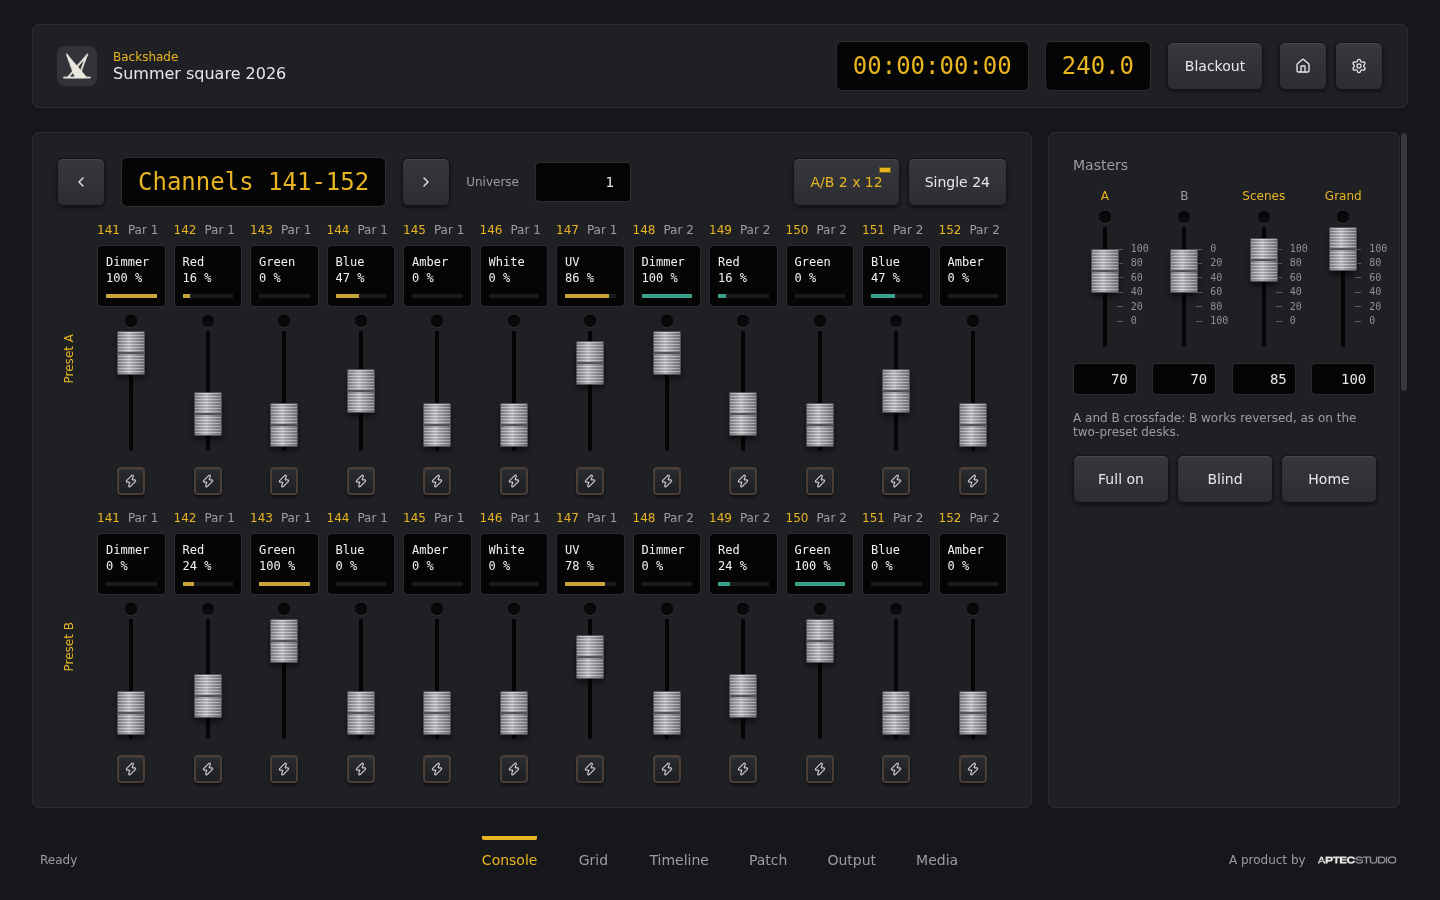
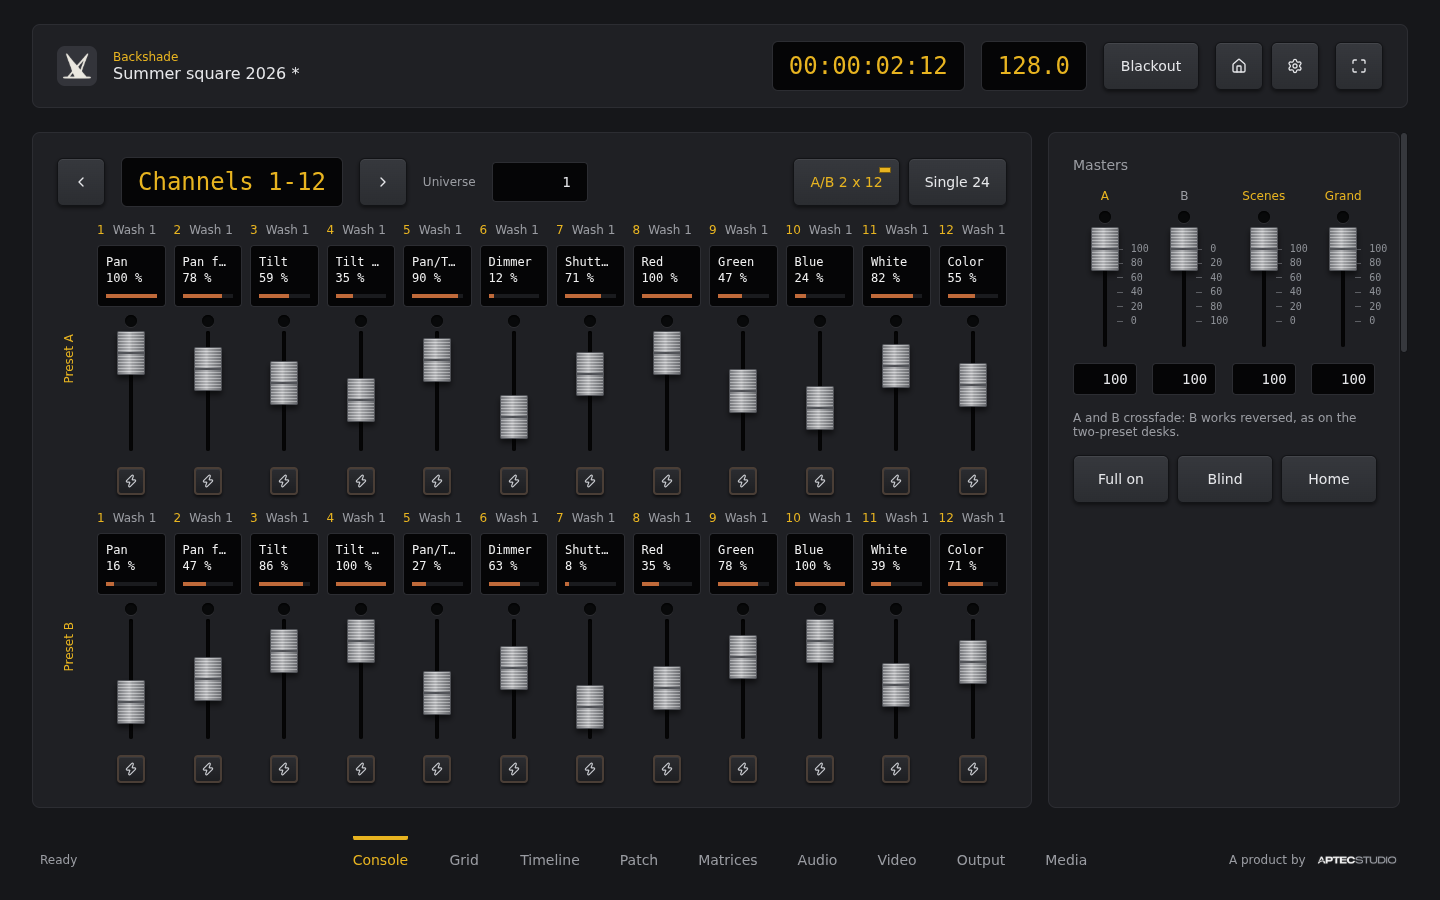
docs: add the live test checklist and new README screenshots
TESTING.md lists the final live tests with real hardware; the README
shows five screenshots of the most interesting features, with updated
features and status.

diff --git a/TESTING.md b/TESTING.md
@@ -1,0 +1,152 @@
+# TESTING.md - Final live tests
+
+Checklist of the tests to run live, with real hardware, before the first release (1.0.0). It lists what has been built so far and is updated at the end of every phase or sub-phase. Automated checks run during development do not replace these tests: here the point is the real devices, the real network and a real show.
+
+How to use it:
+
+- check an item (`- [x]`) when it works as described;
+- when something fails, leave it unchecked and add a short note under it (what happened, on which system and device);
+- "Proposed" choices recorded in `MEMORY.md` (tuning, colors, defaults) are reviewed during the same session.
+
+## Setup for the tests
+
+- At least two computers, ideally with different systems (Windows, macOS, Linux).
+- One or more Art-Net nodes, a USB DMX interface (Enttec DMX USB Pro or compatible, and an Open DMX USB if available).
+- Real fixtures: dimmers or pars (RGB), at least one moving head (pan and tilt 16 bit), an LED pixel matrix or a pixel controller.
+- A second display or a projector, a webcam or a capture card, an external audio interface.
+- A touch screen (or a tablet connected as a monitor) for the grid and the drag and drop.
+
+## 1. Installation and launch
+
+- [ ] The application starts on Windows, macOS and Linux with no errors.
+- [ ] It works offline (network cable removed, no Wi-Fi): no missing icons, fonts or styles.
+- [ ] Interface in English and Italian; switching language updates every section.
+- [ ] A language pack installed by the user appears in the settings and is applied.
+- [ ] The About window shows version, license and the Aptec Studio credit.
+- [ ] The fullscreen key of the top bar enters and leaves fullscreen; the icon follows the system shortcut too.
+
+## 2. Shows, templates and media
+
+- [ ] Start page: recent shows with name, date and folder; a moved or deleted show is marked.
+- [ ] New show from the "Empty show" template and from a user template; open, save, save as, rename, close.
+- [ ] New show from the "Demo show" template: everything opens (fixtures, LED wall, scenes, chasers, cues, grid, audio, video, timeline) with no missing fixtures; with the video output enabled, the timeline plays lights, audio and video together.
+- [ ] Unsaved changes: closing the show or the window asks to save; every answer behaves as expected.
+- [ ] Autosave: kill the application during work (task manager) and reopen the show: the recovery is offered and restores the changes.
+- [ ] History: after several saves the older versions are kept in `history/` (at most 10).
+- [ ] Save as template, rename and delete user templates; included templates are read only.
+- [ ] Export a show as `.bshow` and import it on the other computer: patch, scenes, media and settings are intact.
+- [ ] Export and import a template as `.btemplate`.
+- [ ] Media: import audio, video and image files (also large videos), show in the folder, delete.
+- [ ] A show copied to another computer (USB stick, other system) opens with all its media: paths are portable.
+- [ ] Show settings: description, notes, timecode frame rate, default fades are saved with the show.
+- [ ] Default shows folder changed in the settings: new shows are created there.
+
+## 3. Fixtures and patch
+
+- [ ] The included library has the common models; search and categories work.
+- [ ] Custom fixture editor: create a fixture with channels, ranges, modes and physical data; export and import it.
+- [ ] A show with a definition missing on this computer reports it at opening and lets you import it.
+- [ ] Patch on several universes; overlapping addresses are refused with a clear message.
+- [ ] List view and DMX map view agree; fixture type icons are right.
+- [ ] Fixture groups: create, change, delete; they work on the console and on the grid.
+- [ ] LED matrix patched on several universes (for example 32 x 16 RGB): the segments match the real controller.
+
+## 4. DMX output
+
+- [ ] Art-Net broadcast: a real node receives every universe in use; the lights follow without flicker.
+- [ ] Art-Net unicast to one or more addresses per universe; Port-Address per universe.
+- [ ] ArtPoll finds the nodes on the network.
+- [ ] Choice of the network interface; with the cable unplugged nothing is sent on a wrong network, and sending resumes when the cable is back.
+- [ ] Output on or off per workstation.
+- [ ] Frame rate of the show changed: the output follows (check with a node or a DMX tester).
+- [ ] USB DMX: Enttec DMX USB Pro, Open DMX USB; one universe per interface; unplug and plug back during output.
+- [ ] HTP on intensity and LTP on the other channels when several sources (desk, scenes, grid, timeline) control the same fixture.
+- [ ] Grand master, blackout and full on from the top bar and from the grid.
+- [ ] DMX monitor shows the real values sent, per universe.
+- [ ] 16 bit channels (pan and tilt): smooth movement on a real moving head.
+
+## 5. Simple console
+
+- [ ] Preset A and B rows: faders move the right channels, named after the patched fixtures.
+- [ ] Banks of channels and universe choice; A/B mode and single 24 channel mode.
+- [ ] Flash keys; masters A and B in crossfade; grand master; home; blind (the output does not change while editing).
+- [ ] Attributes panel: select one or more fixtures, their channels on the faders; pan and tilt on the jog wheels; RGB on the color wheel on a real RGB fixture.
+- [ ] Scenes: record from the desk and the attributes, two banks of 12, recall with the saved fade times; non-intensity channels follow the fade.
+- [ ] Several scenes on together; scene master.
+- [ ] Chasers: steps from scenes, step and fade time, bpm and tap tempo, loop, back and forth, random, one shot.
+- [ ] Live cues: Go, Back, Pause, current and next cue, fade progress, follow time; reordering by drag and drop renumbers as expected.
+- [ ] Values shown as percentage or 0-255, chosen separately for faders and knobs.
+
+## 6. LED matrices
+
+- [ ] Matrix preview in the Matrices section matches the real wall (pixel order, start corner, snake).
+- [ ] Basic effects (solid, gradient, scroll, text) and preset animations (rainbow, wave, sparkle, fire, pulse, plasma, chase) with chosen colors, live on the real wall.
+- [ ] Image effect from the show media (fit, fill, stretch).
+- [ ] Effects recorded in scenes and recalled with the scene.
+- [ ] Frame rate and smoothness of the effects on a large matrix spread over several universes.
+
+## 7. Virtual console grid
+
+- [ ] Pages with their columns and rows; cells adapt to the window and to a small screen.
+- [ ] Widgets: key, fader, knob, color picker, XY pad, label, monitor; edit mode and run mode.
+- [ ] Links: scenes, chasers, groups, cues, masters, DMX channels, desk commands, audio player, timers.
+- [ ] Touch screen: several faders and keys at the same time with multi-touch, no wrong presses.
+- [ ] Widgets moved and resized in edit mode, also by touch.
+
+## 8. Audio
+
+- [ ] Audio devices listed; output on an external audio interface.
+- [ ] Playlist: play, pause, stop, next, previous, auto advance, volume.
+- [ ] Items with start and end time, fade in and fade out, loop.
+- [ ] A scene with an audio item starts it with the fades of the scene; cues and grid keys start audio.
+- [ ] Audio stays in sync with lights and video over a long show (no drift).
+
+## 9. Video
+
+- [ ] Displays listed; output fullscreen on a second display or a projector; window output with position and size.
+- [ ] Stacking order of several outputs on the same display.
+- [ ] Layers: video, image, opacity, fit; transitions; preview and program with Take and transition time.
+- [ ] Video inputs: webcam and capture card as layer sources, quality and frame rate per layer; latency acceptable for a live show.
+- [ ] Program recorded in scenes and recalled with the scene.
+- [ ] Text gobos: text, font, size, outline, mask (circle and image), soft edge, focus, rotation, prism, animations, dynamic texts (song, timecode, clock, countdown).
+- [ ] Timer screens: clock, countdown, countdown to a time, stopwatch; behavior at zero; control from the Video section and grid keys.
+- [ ] Long videos play smoothly in fullscreen (no dropped frames, no tearing) on every system.
+
+## 10. Timelines
+
+- [ ] Several timelines per show; tracks added, removed, moved, put in folders, muted, resized; zoom and scrolling.
+- [ ] Light, audio, video and automation tracks play what they should, on the right outputs.
+- [ ] Clips: move (also to another track), resize, fades, snap (bars, beats, seconds, frames), selection, duplicate, split, undo and redo.
+- [ ] Playback with loop; the timecode display of the top bar follows the playhead.
+- [ ] Lights, audio and video stay in sync during a whole song and over a long run.
+
+## 11. Drag and drop
+
+- [ ] Every reorderable list (tracks, folders, cues, playlist, video layers and the others) moves by mouse and by touch, with the preview of the drop place and the animation of the neighbors.
+- [ ] Dropping a track into a folder works; long press starts the drag on touch without blocking scrolling.
+
+## 12. Operators
+
+- [ ] Create the administrator profile in a show: the show asks for the PIN at every opening, on every computer.
+- [ ] Operators with sections hidden, read only and editable: tabs and sections follow the profile.
+- [ ] Read only: the section can be seen and played (scenes, cues, video take, timeline) but changes are refused.
+- [ ] Change operator from the top bar key; the last section opens again after the PIN.
+- [ ] Wrong PIN: message; after 5 wrong PINs the keypad is locked for 30 seconds.
+- [ ] Several administrators; the last administrator cannot lose the role; deleting the own last profile removes the protection.
+- [ ] Show settings available only to administrators.
+- [ ] A protected show moved to another computer keeps its operators; templates and new shows never carry operators.
+
+## 13. Import from another show
+
+- [ ] Import dialog: source among the recent shows and from a folder; categories and single items with toggles.
+- [ ] A protected source asks for the PIN of its administrator; no PIN when the same administrator (same name and PIN) entered the open show.
+- [ ] Dependencies: choosing a chaser brings its scenes, and the scenes bring their fixtures, matrices, audio, video and media.
+- [ ] Conflicts: add, replace and skip for occupied slots, overlapping addresses, different files with the same name, operator names; imported scenes drive the moved fixtures on the real rig.
+- [ ] Importing operators into an unprotected show: who imports enters as the source administrator.
+- [ ] Two operators with the same PIN after an import: the keypad offers their names.
+
+## 14. Stability
+
+- [ ] A whole show run (several hours) with lights, audio, video and timeline: no slowdowns, memory and CPU stay stable.
+- [ ] Quit and restart during a show: everything comes back as saved.
+- [ ] Two instances on the same network do not disturb each other's Art-Net output when configured on different universes.

diff --git a/README.md b/README.md
@@ -18,82 +18,49 @@ Backshade is a cross-platform desktop application (Windows, Linux, macOS) built 
 
 ## Screenshots
 
-The simple console: a two-preset desk with Preset A and B rows of faders on DMX channels, named after the patched fixtures, and the masters with the A/B crossfade.
+Pre-programmed shows on a timeline of tracks: light, automation, audio and video clips on a shared clock, with folders, fades and snap to the beat.
+
+![Timeline](docs/screenshots/timeline.png)
+
+The virtual console: a grid of faders, keys, an XY pad, a color picker, knobs and monitors, linked to groups, scenes, chasers and the cue list, for touch screens too.
+
+![Virtual console](docs/screenshots/virtual-console.png)
+
+Video direction with preview and program: layers of videos, images, text gobos and timer screens, taken to the outputs with a transition.
+
+![Video](docs/screenshots/video.png)
+
+LED matrices patched over several universes, with live effects and animations whose colors can be chosen.
+
+![LED matrix](docs/screenshots/led-matrix.png)
+
+The simple console: a two-preset desk with Preset A and B rows of faders named after the patched fixtures, and the masters with the A/B crossfade.
 
 ![Console](docs/screenshots/console.png)
-
-Scenes recorded from the desk in two banks of 12, and chasers that play them at their own speed, with tap tempo.
-
-![Memories](docs/screenshots/console-memories.png)
-
-Live cues: Go, Back and Pause, with the current and next cue, the fade progress and an optional follow.
-
-![Cues](docs/screenshots/console-cues.png)
-
-The attributes panel: selected fixtures get their channels on faders, pan and tilt on two 16-bit jog wheels, RGB on the color wheel.
-
-![Attributes](docs/screenshots/console-attributes.png)
-
-The patch, on several universes, with a library of fixture definitions and a custom fixture editor.
-
-![Patch](docs/screenshots/patch.png)
-
-Output over Art-Net and USB DMX interfaces, with a live DMX monitor.
-
-![DMX monitor](docs/screenshots/dmx-monitor.png)
-
-The start page opens at launch, with the recent shows and the actions on the open show.
-
-![Start page](docs/screenshots/start-page.png)
-
-New shows start from a template: the included "Empty show" or one saved by the user.
-
-![New show](docs/screenshots/new-show.png)
-
-Every show keeps its audio, video and image files in its own folder.
-
-![Media](docs/screenshots/media.png)
-
-Times are set with a time picker and a jog wheel, which works with mouse, pen and touch.
-
-![Time picker](docs/screenshots/time-picker.png)
-
-Application settings: language, display of fader and knob values, default shows folder.
-
-![Settings](docs/screenshots/settings.png)
-
-Console controls from the component catalog: channel displays, knobs, square keys, long faders and typed values.
-
-![Console controls](docs/screenshots/catalog-controls.png)
 
 ## Features
 
 Available now:
 
-- Start page with recent shows, as the entry point of the application
-- Shows saved as portable folders: new, open, save, save as, rename, close
-- Autosave with recovery after an unexpected exit, and history of the saved versions
-- Show templates: included and created by the user, with a management screen
-- Export and import of shows (`.bshow`) and templates (`.btemplate`) as single archives
-- Show media: audio, video and image files copied into the show folder
-- Show settings: description and notes, timecode frame rate, default fades
-- Fixture library with common models and a custom fixture editor, with import and export
-- Multi-universe patch with address conflict checks, as a list or as a DMX map
-- DMX output over Art-Net (broadcast or unicast, node search) and USB DMX interfaces (Enttec DMX USB Pro, Open DMX), with grand master, blackout and a DMX monitor
-- Simple console: two-preset desk (A/B crossfade or single 24 channels), attributes panel with jog wheels and color wheel, scenes, chasers with tap tempo, and live cues with Go, Back, Pause and follow
-- Multilingual interface (English and Italian), extensible with language packs installed by the user
-- Skeuomorphic console controls: keys, displays, knobs, faders, jog wheels, time picker, color wheel
+- Start page with recent shows; shows saved as portable folders, with autosave, recovery and history of the saved versions
+- Show templates, with a complete "Demo show" to try every feature; export and import of shows and templates as single archives, show media in the show folder
+- Show operators with a 4 digit PIN: each operator sees the sections of the profile, hidden, read only or editable
+- Import from another show: scenes, chasers, fixtures, audio, video, images and operators, with their dependencies and the choice of how to solve conflicts
+- Fixture library with a custom fixture editor; multi-universe patch with groups and LED matrices
+- DMX output over Art-Net and USB DMX interfaces, with grand master, blackout and a DMX monitor
+- Simple console: two-preset desk, attributes panel with jog wheels and color wheel, scenes, chasers with tap tempo, live cues
+- LED matrices with effects, animations and image mapping, recorded in scenes
+- Virtual console on a customizable grid for each show, with multi-touch
+- Audio player with playlist, fades and output device; video outputs on external displays with layers, inputs from cameras, preview and program, text gobos and timer screens
+- Timelines of tracks with lights, audio, video and automation clips, edited as in a DAW, with drag and drop everywhere
+- Multilingual interface (English and Italian), extensible with language packs
 
 Planned (see [ROADMAP.md](ROADMAP.md)):
 
-- LED matrices
-- Virtual console on a customizable grid for each show
-- Video direction, audio playback, overlay images and text gobos
-- Pre-programmed shows with a DAW-style track editor
-- Integration between lights, audio, video and external audio mixers
+- Waveforms, markers and go mode in the timeline
+- Integration with external audio mixers and MIDI controllers
 - Remote control from desktop or mobile through the built-in web server
 - 3D stage, videomapping, several synchronized machines
-- Touch screens and external MIDI controllers
 
 ## Requirements
 
@@ -167,13 +134,14 @@ Installers for Windows, macOS and Linux are planned in Phase 11 of the roadmap.
 
 ## Status
 
-Phases 1 to 4 of the [roadmap](ROADMAP.md) are complete: application base, design system, localization, transport layer between interface and engine, shows, templates, media and archives, fixtures, patch, DMX output over Art-Net and USB, and the simple console with scenes, chasers and live cues. The next phase is LED matrices. Version 1.0.0 will be the first release, when all the planned features are ready for distribution and testing.
+Phases 1 to 7 of the [roadmap](ROADMAP.md) are complete, with the first part of Phase 8: shows, operators and import between shows, fixtures and patch, DMX output, the simple console, LED matrices, the virtual console, audio and video, and the track timeline. Version 1.0.0 will be the first release, when all the planned features are ready for distribution and testing; the live tests to run before it are listed in [TESTING.md](TESTING.md).
 
 ## Development documentation
 
 - [AGENTS.md](AGENTS.md): rules for AI agents
 - [ROADMAP.md](ROADMAP.md): phases and progress
 - [MEMORY.md](MEMORY.md): choices and conventions
+- [TESTING.md](TESTING.md): final live tests with real hardware
 - [docs/design](docs/design/README.md): design reference
 - [docs/brand](docs/brand/README.md): brand assets
 - [docs/localization](docs/localization/README.md): languages and language packs

diff --git a/MEMORY.md b/MEMORY.md
@@ -16,6 +16,8 @@ Log of Backshade's technical decisions and conventions. Each entry shows its sta
 | Runtime | Electron | Confirmed |
 | Interface | HTML, TypeScript, SCSS, internal TypeScript and SCSS frameworks | Confirmed (TypeScript and SCSS replace JavaScript, jQuery and Tailwind on 2026-11-23) |
 | Versioning | SemVer; 1.0.0 is the first release, when all planned features are implemented and the application is ready for distribution and testing; no versions before it (`app/package.json` stays at `0.0.0`) | Confirmed (changed on 2026-11-23, it was the first runnable version) |
+| Live tests | `TESTING.md`: checklist of the final tests to run live with real hardware; the agent adds the new features to it at the end of every phase or sub-phase | Confirmed (requested by the human on 2026-11-26) |
+| README screenshots | Only 5 screenshots in `README.md`, showing the most interesting features; updated when better features arrive | Confirmed (requested by the human on 2026-11-26) |
 
 ## Language
 
@@ -178,7 +180,7 @@ Status: Confirmed (request and polls of the human), Proposed (marked points).
 Requested by the human on 2026-11-23 (Phase 2.9).
 
 - A template is a **complete show folder**, with the same format as a show (`show.json`, `media/`): creating a show from a template copies the folder and assigns a new name and identifier. There is no second format.
-- Included templates live in the application; for now only "Empty show". More included templates come after the fixtures and the console (Phases 3 and 4).
+- Included templates live in the application (`app/templates`): "Empty show" and "Demo show". The demo (requested by the human on 2026-11-26, so that anyone can try the application) is a complete show: 20 fixtures of the included library in 3 groups, a 32 x 16 LED wall, 8 scenes (one with an LED effect, one with a video program), 3 chasers, 5 cues, a grid page for the show and one for media, an audio playlist, a video output (off by default, so no window opens by surprise), a text gobo, two timers and a timeline with light, automation, audio and video tracks. Its media files are generated for the project (synthesized audio, drawn images, a canvas video) and the Backshade logo. The demo is updated when new features deserve to be shown. (Proposed)
 - User templates live in `templates/` in the user data folder (`app.getPath('userData')`), like the language packs: no administrator rights, they survive updates.
 - The user creates a template with "Save as template" from the open show (name and description), and can export and import a template as a single archive, with the same format as the show export (2.6).
 - Files: a template folder is `<name>.backshade/` with `show.json` and `template.json` (`name` and `description`, either a text or an object with one text per language code, used by the included templates). Template identifiers are `bundled:<folder name>` and `user:<folder name>`. Included templates live in `app/templates/`.

diff --git a/ROADMAP.md b/ROADMAP.md
@@ -62,7 +62,7 @@ Development order: the first block is 2.1, 2.2, 2.5, 2.8, 2.9.1 to 2.9.3 and 2.9
   - [x] 2.8.4 Choice of the template for a new show, among the included templates and those created by the user
 - [x] 2.9 Show templates (see `MEMORY.md`, Show templates)
   - [x] 2.9.1 A template is a complete show folder; a new show is a copy with a new name and identifier
-  - [x] 2.9.2 Included template: "Empty show" (more included templates after Phases 3 and 4)
+  - [x] 2.9.2 Included templates: "Empty show" and "Demo show", a complete show to try every feature (requested by the human on 2026-11-26)
   - [x] 2.9.3 Save as template from the open show, with name and description, in the user data folder
   - [x] 2.9.4 Export and import of a template as a single archive, with the same format as the show export (2.6)
   - [x] 2.9.5 Template management screen, opened from the start page: list of included and user templates; rename, edit the description and delete user templates; included templates are read-only
